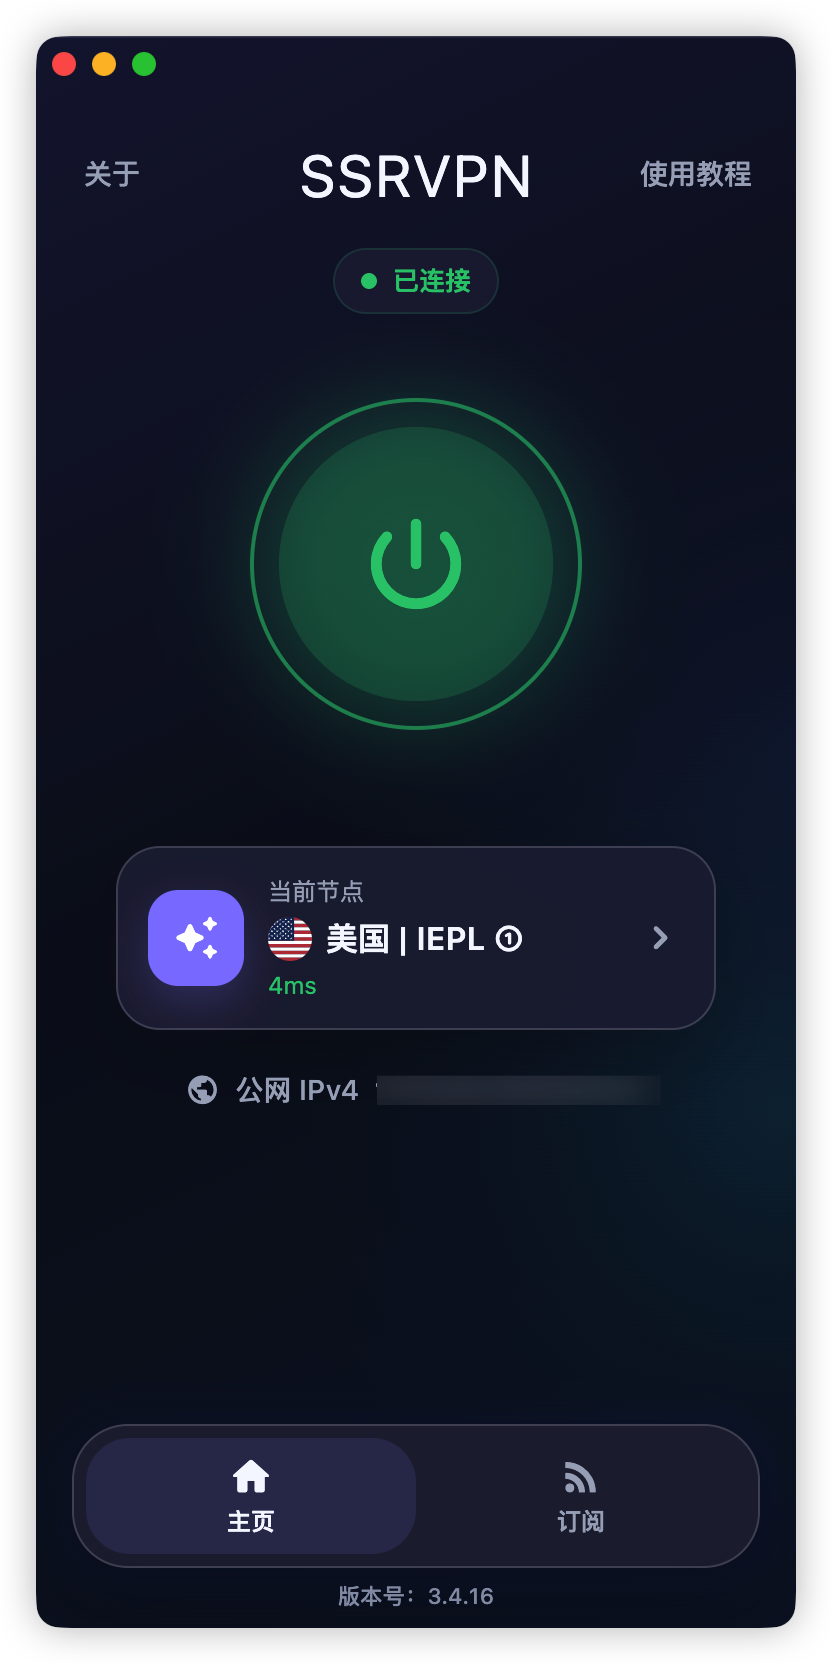
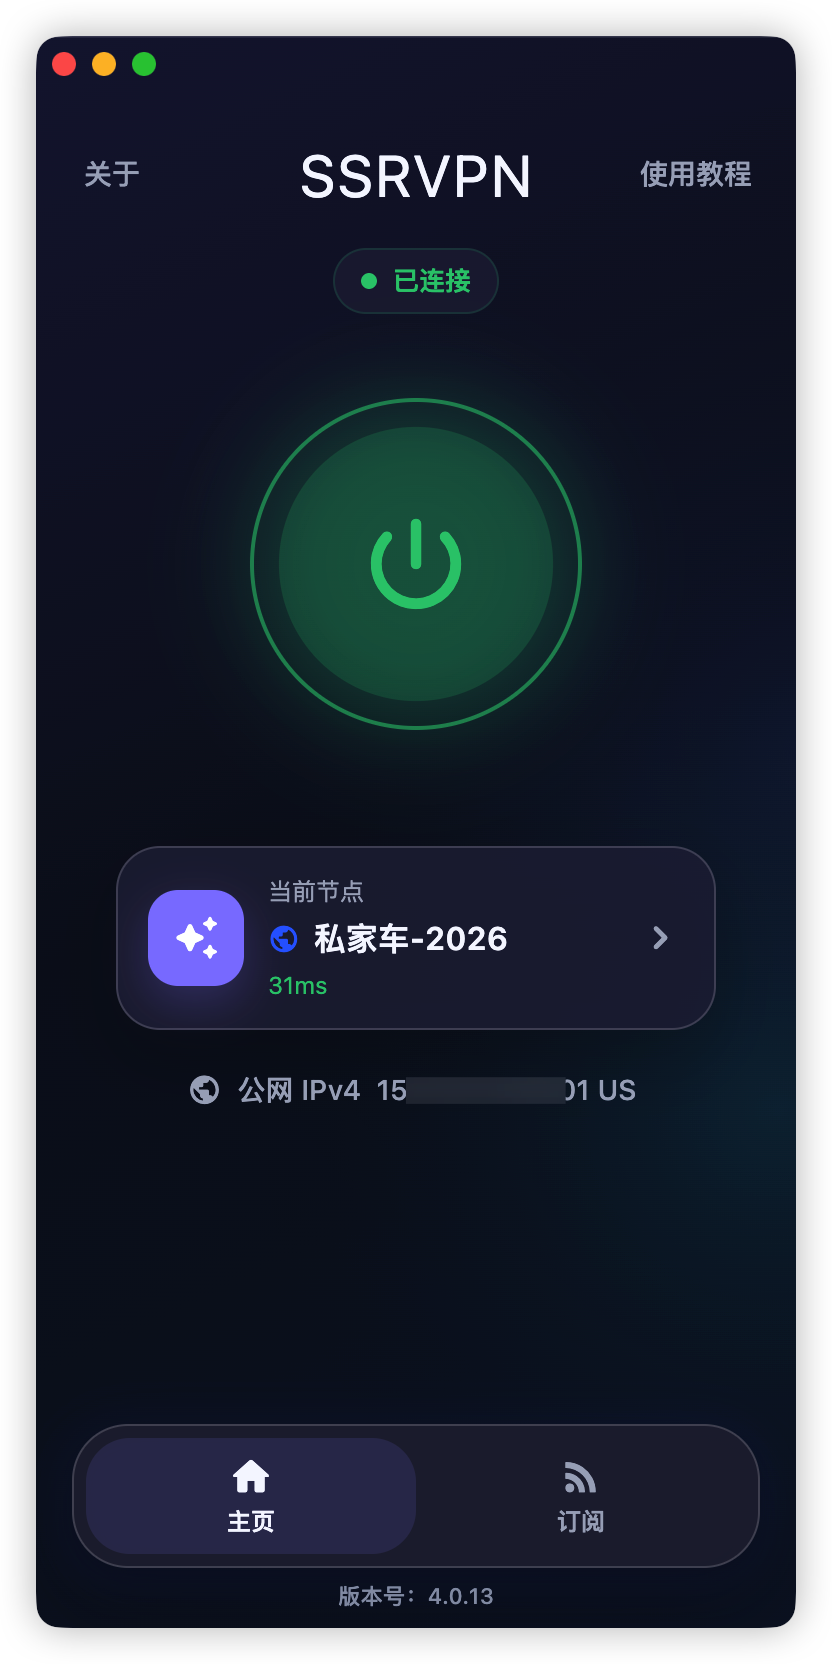
docs: refresh README product screenshots

Changed region(s): [[0.3125, 0.5312, 0.625, 0.5938], [0.2812, 0.625, 0.375, 0.6562], [0.5312, 0.9375, 0.5625, 0.9688]]

diff --git a/README.md b/README.md
@@ -16,7 +16,8 @@ Android、macOS、Windows 三端一致的连接体验：导入订阅，选择节
 
 [立即下载](#下载) · [使用指南](docs/USER_GUIDE.zh-CN.md) · [故障排查](docs/TROUBLESHOOTING.zh-CN.md) · [报告问题](https://github.com/Elegying/SSRVPN/issues/new/choose) · [项目文档](docs/README.md)
 
-<img src="docs/assets/ssrvpn-product-preview.png" alt="SSRVPN 开源跨平台 Mihomo VPN 和代理客户端连接界面" width="416">
+<img src="docs/assets/ssrvpn-product-preview.png" alt="SSRVPN v4.0.13 已连接主页" width="400">
+<img src="docs/assets/ssrvpn-node-preview.png" alt="SSRVPN v4.0.13 节点选择与代理模式界面" width="400">
 
 </div>
 
